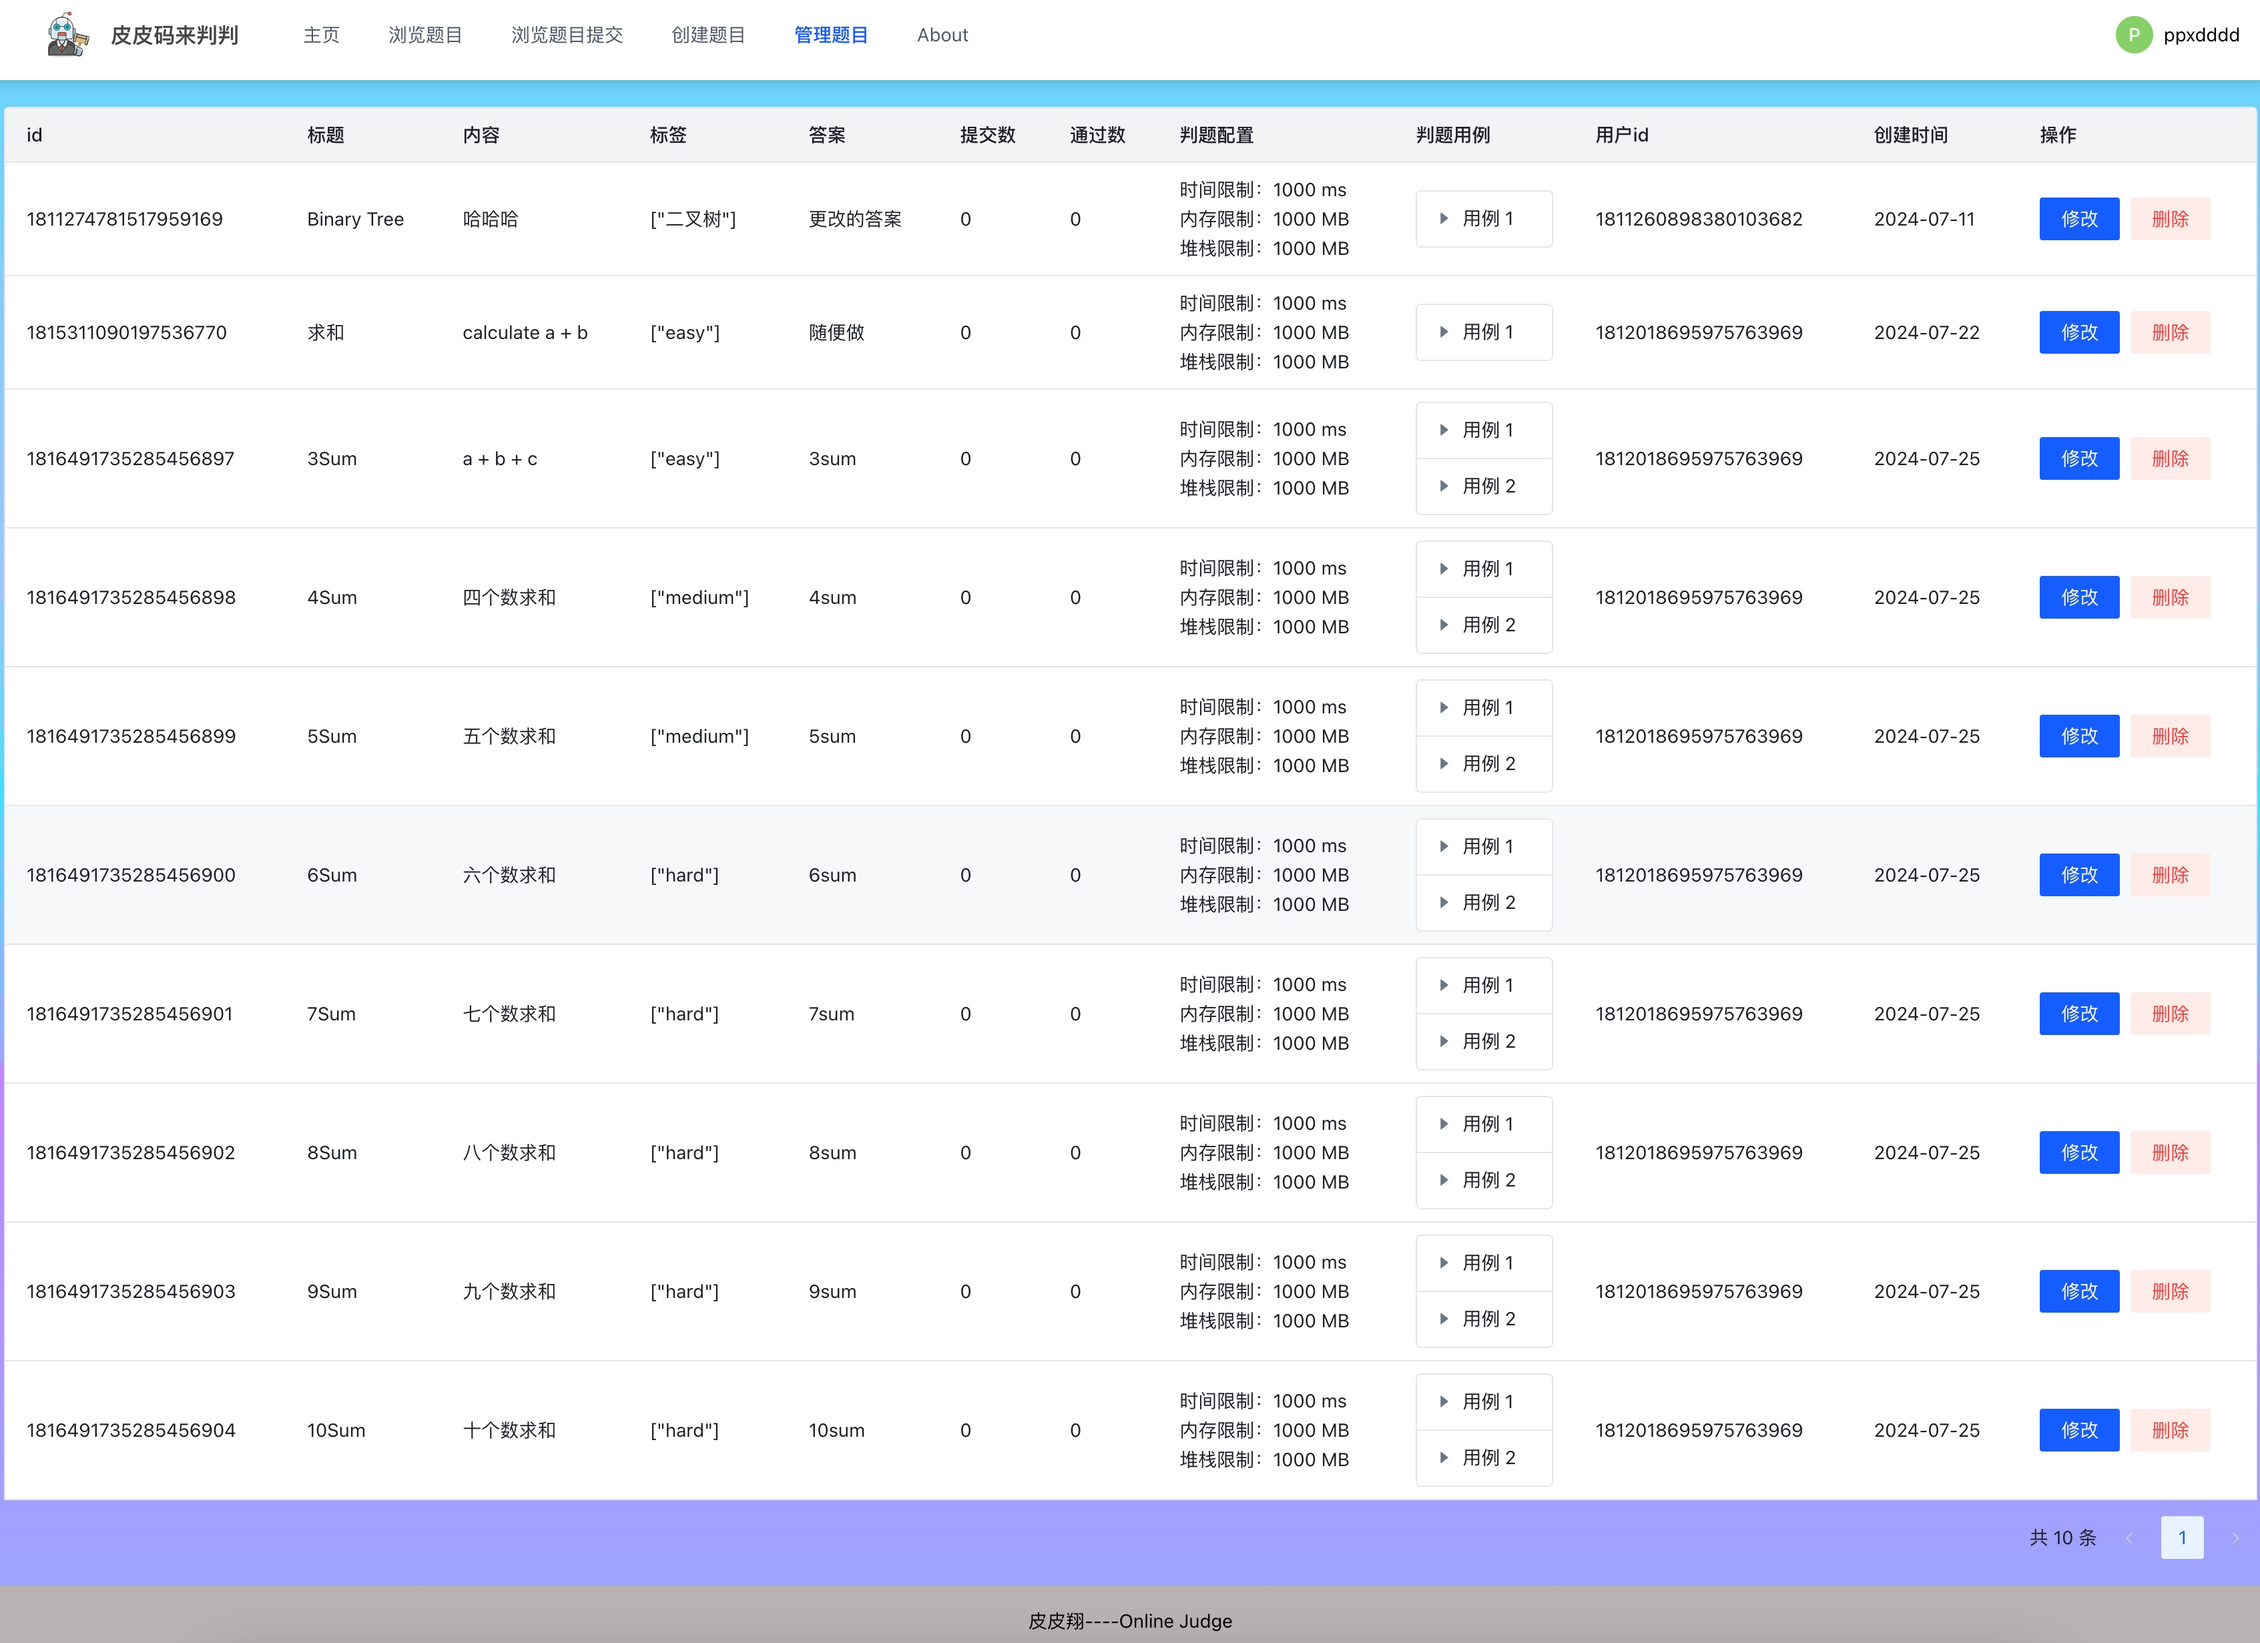
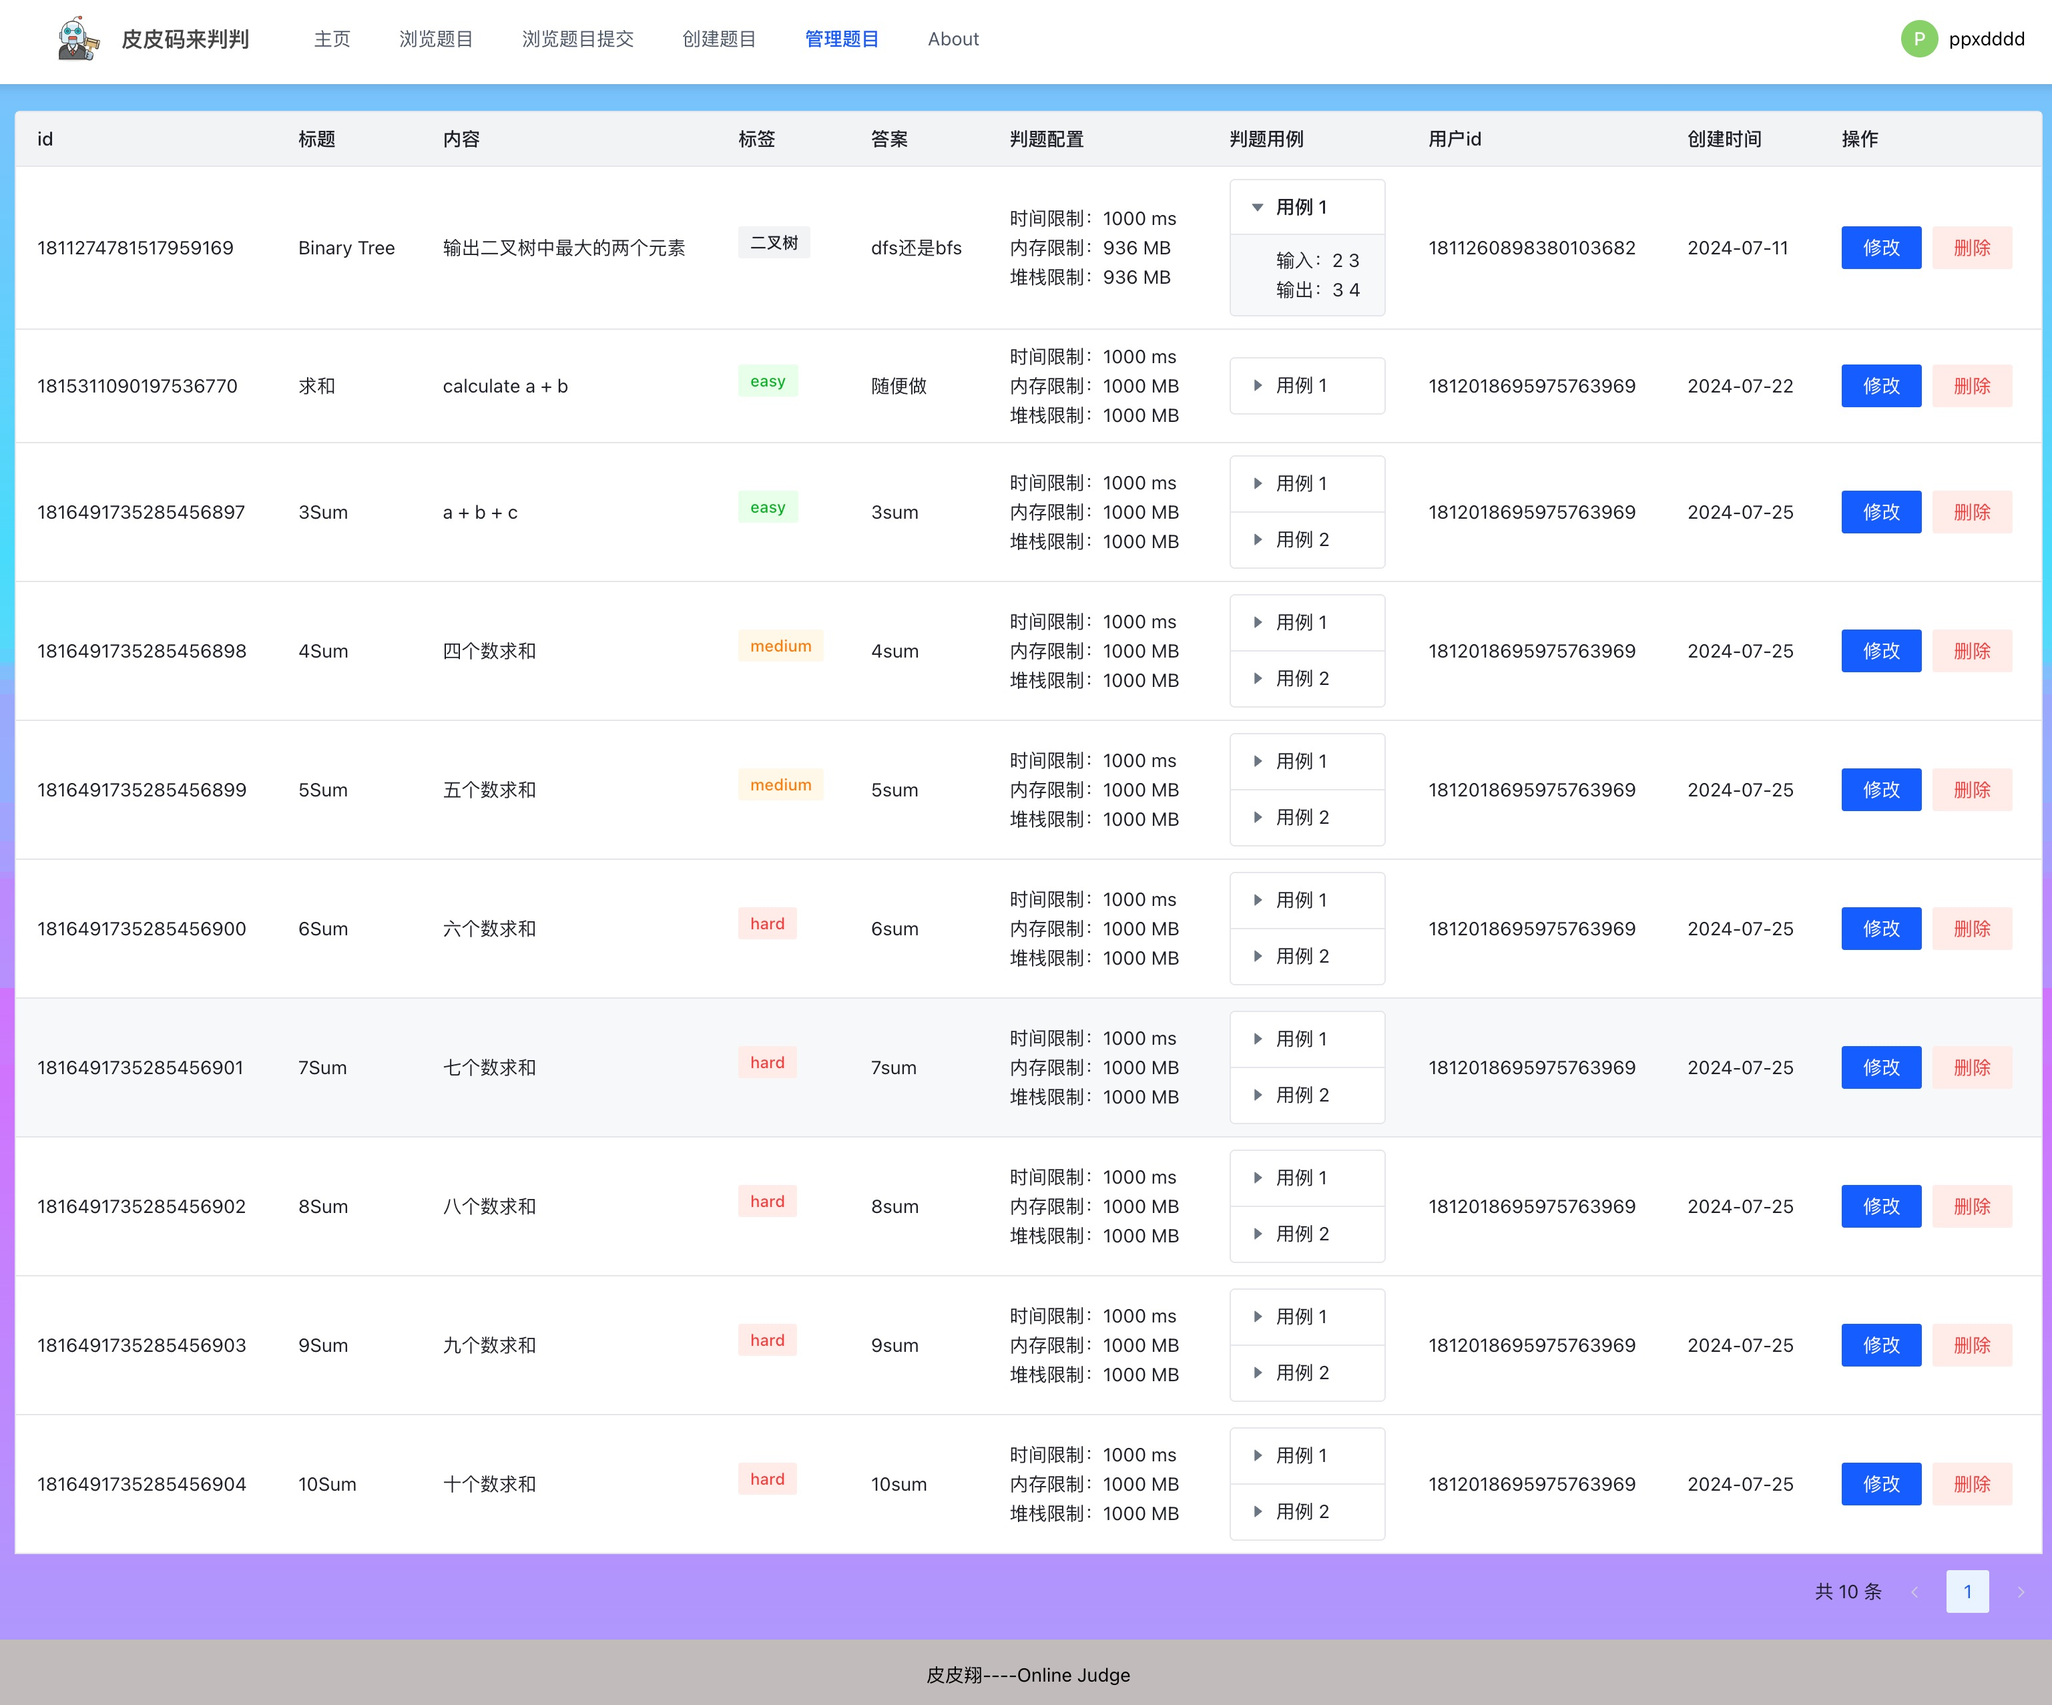
manage question bug fixed

diff --git a/src/views/question/ManageQuestionView.vue b/src/views/question/ManageQuestionView.vue
@@ -46,6 +46,17 @@
       <template #createTime="{ record }">
         {{ formatDate(record.createTime) }}
       </template>
+      <template #tags="{ record }">
+        <a-space wrap>
+          <a-tag
+            v-for="(tag, index) in parseTags(record.tags)"
+            :key="index"
+            :color="getTagColor(tag)"
+          >
+            {{ tag }}
+          </a-tag>
+        </a-space>
+      </template>
     </a-table>
   </div>
 </template>
@@ -108,6 +119,28 @@ const parseJudgeCase = (judgeCase: string) => {
   }
 };
 
+const parseTags = (tags: string) => {
+  try {
+    return JSON.parse(tags);
+  } catch (error) {
+    console.error("解析 tags 失败:", error);
+    return [];
+  }
+};
+
+const getTagColor = (tag: string) => {
+  switch (tag.toLowerCase()) {
+    case "easy":
+      return "green";
+    case "medium":
+      return "orange";
+    case "hard":
+      return "red";
+    default:
+      return "";
+  }
+};
+
 const formatDate = (dateString: string) => {
   if (!dateString) return "N/A";
   const date = new Date(dateString);
@@ -130,18 +163,11 @@ const columns = [
   {
     title: "标签",
     dataIndex: "tags",
+    slotName: "tags",
   },
   {
     title: "答案",
     dataIndex: "answer",
-  },
-  {
-    title: "提交数",
-    dataIndex: "submitNum",
-  },
-  {
-    title: "通过数",
-    dataIndex: "acceptedNum",
   },
   {
     title: "判题配置",

diff --git a/src/views/question/AddQuestionView.vue b/src/views/question/AddQuestionView.vue
@@ -189,17 +189,14 @@ const loadData = async () => {
     if (res.code === 0 && res.data) {
       form.value = {
         ...res.data,
-        judgeCase: res.data.judgeCase
-          ? JSON.parse(res.data.judgeCase)
-          : [{ input: "", output: "" }],
-        judgeConfig: res.data.judgeConfig
-          ? JSON.parse(res.data.judgeConfig)
-          : {
-              memoryLimit: 1000,
-              stackLimit: 1000,
-              timeLimit: 1000,
-            },
-        tags: res.data.tags ? JSON.parse(res.data.tags) : [],
+        judgeCase: Array.isArray(res.data.judgeCase)
+          ? res.data.judgeCase
+          : JSON.parse(res.data.judgeCase || "[]"),
+        judgeConfig:
+          typeof res.data.judgeConfig === "object"
+            ? res.data.judgeConfig
+            : JSON.parse(res.data.judgeConfig || "{}"),
+        tags: Array.isArray(res.data.tags) ? res.data.tags : [],
       };
     } else {
       throw new Error(res.message || "加载失败");
@@ -223,9 +220,7 @@ const doSubmit = async () => {
   try {
     const submitData = {
       ...form.value,
-      judgeCase: JSON.stringify(form.value.judgeCase),
-      judgeConfig: JSON.stringify(form.value.judgeConfig),
-      tags: JSON.stringify(form.value.tags),
+      tags: Array.isArray(form.value.tags) ? form.value.tags : [],
     };
 
     const service = updatePage
